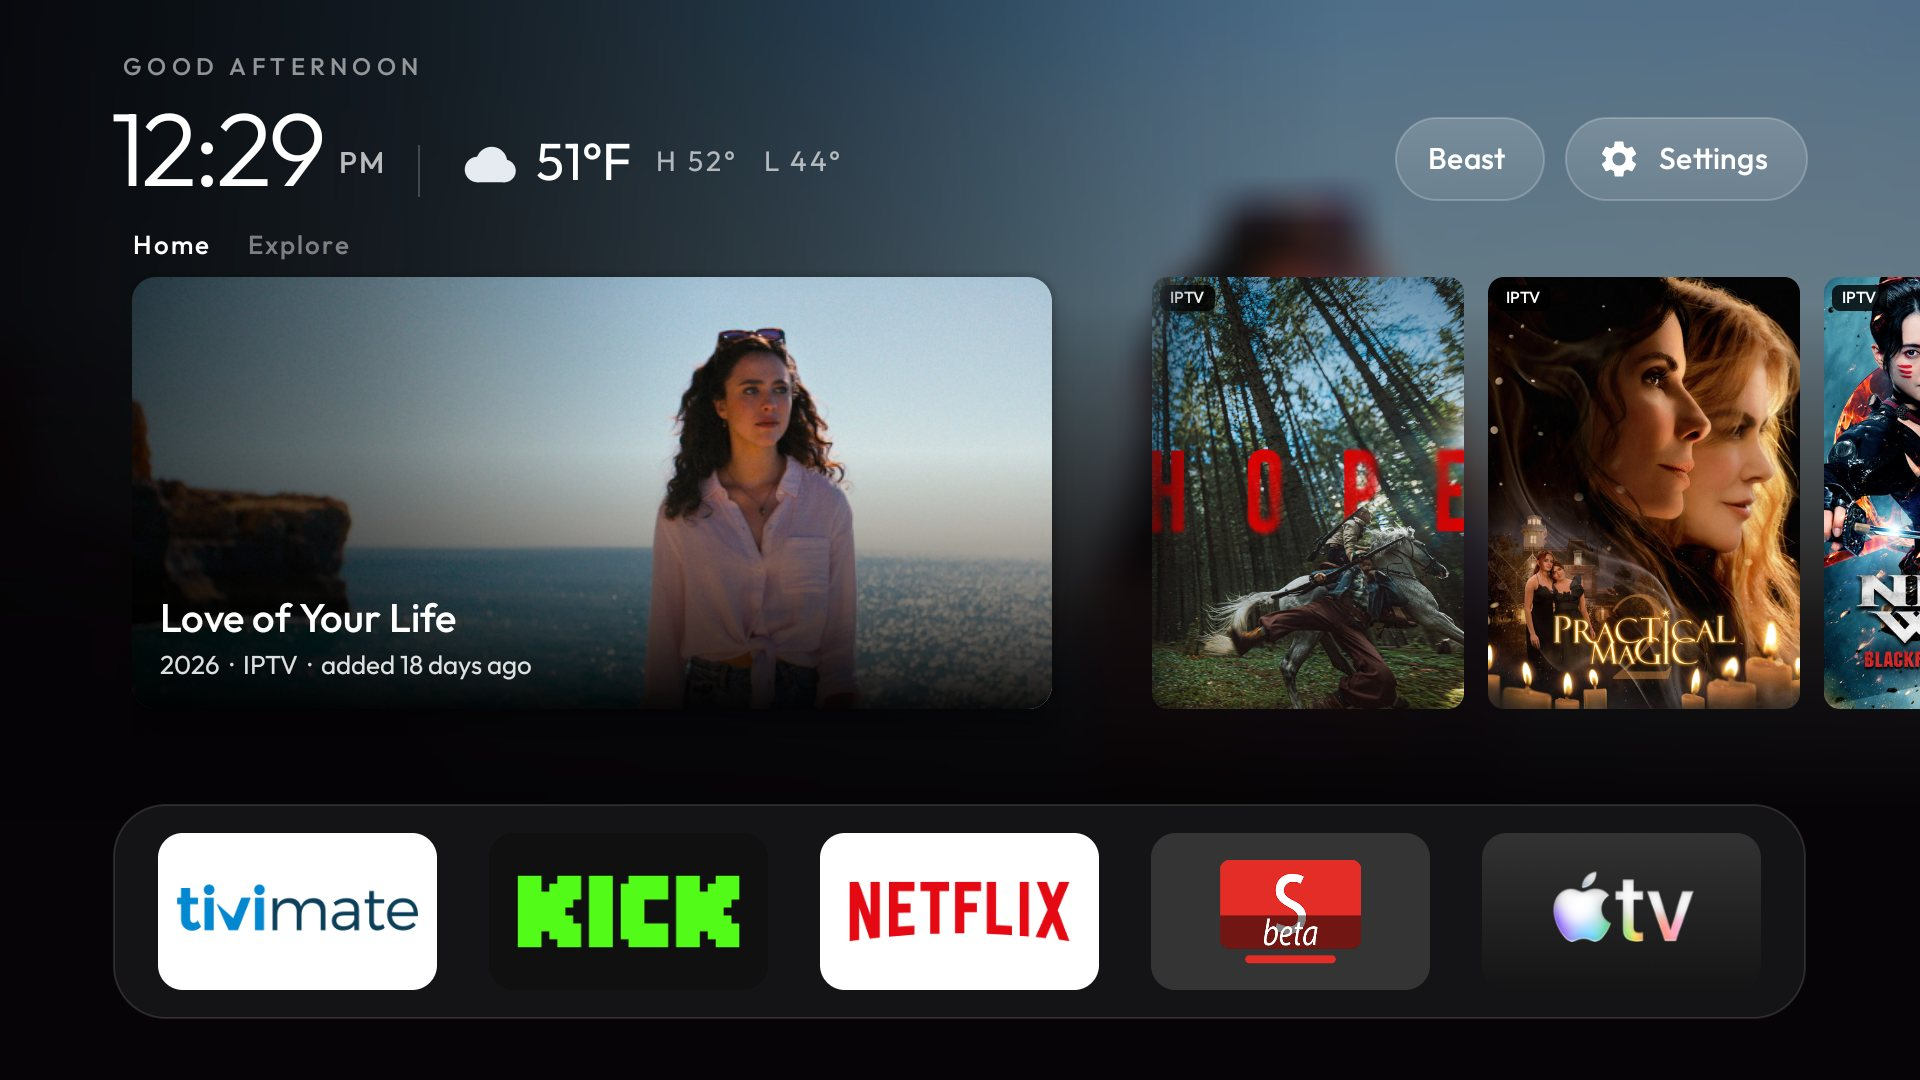
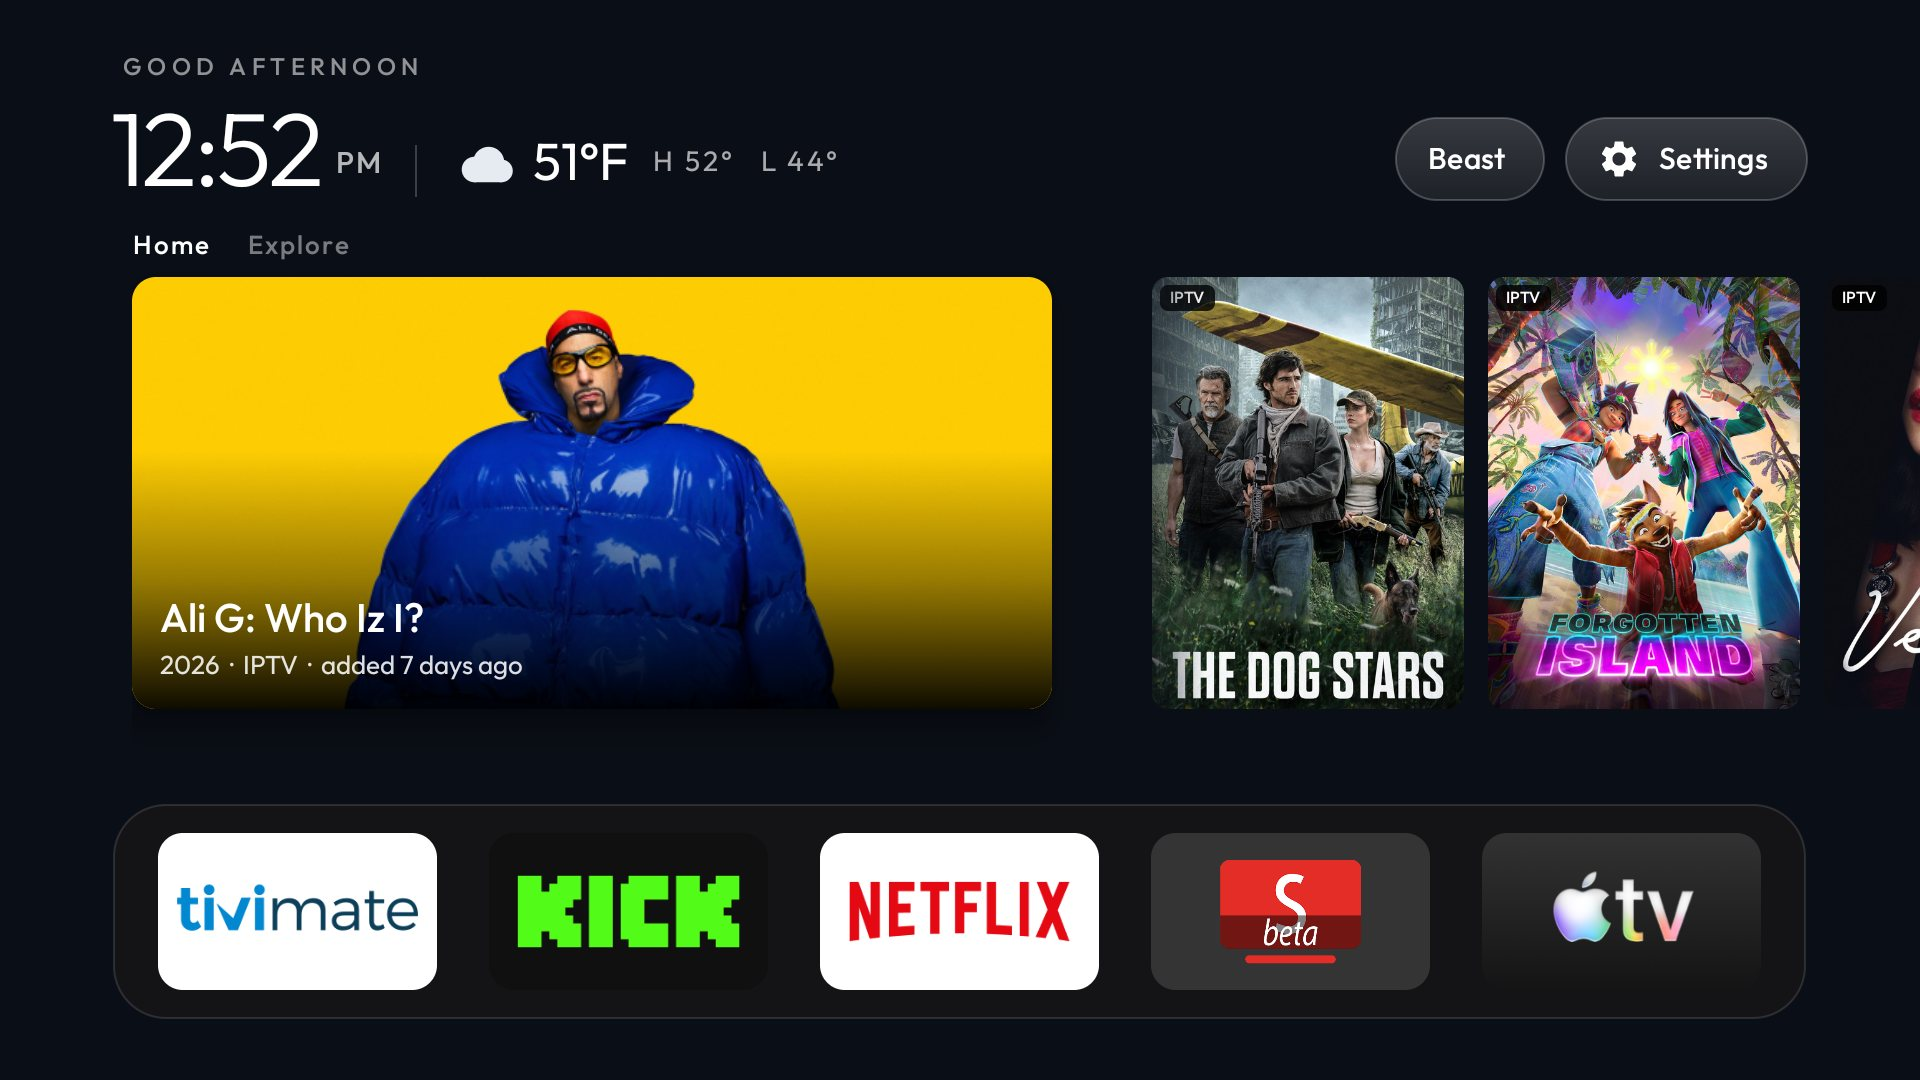
docs: rename Office, mask LAN IPs in docs, add Mediarium explainer
Rename the room 'Jeremys Office' to 'Office' (folder, scripts, rooms.ps1 and both READMEs). Mask the first three octets of TV and server IPs in the READMEs (xxx.xxx.xxx.NNN) for a shareable repo; functional source keeps the real private LAN addresses so builds still work. Add a 'What is Mediarium (Beast)?' section and refresh the home screenshot from the Office TV.

diff --git a/mytv/README.md b/mytv/README.md
@@ -5,12 +5,13 @@ Each room has its own folder with its launcher settings, debloat lists and backu
 
 | Room | Device | Address | Folder |
 |------|--------|---------|--------|
-| Jeremys Office | Hisense SmartTV 4K (lushan), Google TV 12 | `192.168.1.131` | [`Jeremys Office\`](Jeremys%20Office/) |
-| LivingRoom TV | onn. Streaming Device 4K pro (SNA), Google TV 14 | `192.168.1.233` | [`LivingRoom TV\`](LivingRoom%20TV/) |
-| Master Bedroom | onn 4K Pro Streaming Device (jarvis2), Google TV 14 | `192.168.1.214` | [`Master Bedroom\`](Master%20Bedroom/) |
+| Office | Hisense SmartTV 4K (lushan), Google TV 12 | `xxx.xxx.xxx.131` | [`Office\`](Office/) |
+| LivingRoom TV | onn. Streaming Device 4K pro (SNA), Google TV 14 | `xxx.xxx.xxx.233` | [`LivingRoom TV\`](LivingRoom%20TV/) |
+| Master Bedroom | onn 4K Pro Streaming Device (jarvis2), Google TV 14 | `xxx.xxx.xxx.214` | [`Master Bedroom\`](Master%20Bedroom/) |
 
-All three are on Wi-Fi "Poncho7G". The room names and addresses live in [`rooms.ps1`](rooms.ps1). If a TV gets a new
-address, change it there; better, give each TV a DHCP reservation on the router so it doesn't move.
+Addresses are shown with the first three octets masked. The room names and real addresses live in
+[`rooms.ps1`](rooms.ps1). If a TV gets a new address, change it there; better, give each TV a DHCP reservation on
+the router so it doesn't move.
 
 Every command below needs **USB debugging and Network debugging switched on** on that TV
 (Settings > System > Developer options), because it talks to the TV over the network. Accept the
@@ -21,8 +22,8 @@ Every command below needs **USB debugging and Network debugging switched on** on
 | To | Run |
 |----|-----|
 | Rebuild and install the launcher after editing a room's `config.xml` | `pwsh mytv\build-and-install.ps1 -Room 'Master Bedroom'` |
-| Undo a room's debloat and give Home back to Google TV | `pwsh mytv\restore.ps1 -Room 'Jeremys Office'` |
-| Re-enable one app | `pwsh mytv\restore.ps1 -Room 'Jeremys Office' -Package com.vt.hishow` |
+| Undo a room's debloat and give Home back to Google TV | `pwsh mytv\restore.ps1 -Room 'Office'` |
+| Re-enable one app | `pwsh mytv\restore.ps1 -Room 'Office' -Package com.vt.hishow` |
 | Snapshot a TV's packages and settings (read-only) | `pwsh mytv\backup.ps1 -Room 'Master Bedroom'` |
 | Push a theme | `pwsh tools\theme.ps1 -TvHost <address> themes\christmas` |
 | Remove the theme (plain black) | `pwsh tools\theme.ps1 -TvHost <address> -Reset` |
@@ -66,12 +67,12 @@ Just Player `com.brouken.player`, SmartTube beta `org.smarttube.beta`.
 
 Tiles can also be reordered on the TV itself: hold OK on the Settings pill and pick Reorder.
 
-## Jeremys Office
+## Office
 
 Hisense SmartTV 4K (lushan), Google TV 12, firmware STT2.230929.001.091. Set up on 2026-11-02.
 
 - **8 packages disabled** (never uninstalled), listed with reasons in
-  [`Jeremys Office\debloat.txt`](Jeremys%20Office/debloat.txt): Hisense viewing-data tracking (ACR), Google partner
+  [`Office\debloat.txt`](Office/debloat.txt): Hisense viewing-data tracking (ACR), Google partner
   tracking, the feedback uploader, calendar sync, Family Moment, store demo mode, first-time setup hooks and the
   Hisense "cleaner". Applied as `batch1.txt` and `batch2.txt`, which the restore replays.
 - **Home**: the Clean Your TV launcher. Google TV home (`com.google.android.apps.tv.launcherx`) is disabled so it
@@ -82,7 +83,7 @@ Hisense SmartTV 4K (lushan), Google TV 12, firmware STT2.230929.001.091. Set up 
 - **Inputs menu**: HDMI 1-3 and Live TV (`com.vt.tv.tvcenter`, hidden from the grid).
 - **Theme**: `themes\christmas` (Santa's sleigh wallpaper, glass dock). Screensaver: the stock Google TV
   backdrop.
-- **Beast button**: on, opening the Mediarium server panel at `http://192.168.1.15:8264/`. See the Beast page
+- **Beast button**: on, opening the Mediarium server panel at `http://xxx.xxx.xxx.15:8264/`. See the Beast page
   section below; it is on in all three rooms.
 - **Weather widget**: on, in place of the date next to the clock (current temperature, condition icon, today's
   high/low). The Wi-Fi and Inputs pills are off (house rule above); Beast and Settings stay. Verified on screen
@@ -91,11 +92,11 @@ Hisense SmartTV 4K (lushan), Google TV 12, firmware STT2.230929.001.091. Set up 
   exactly. See `weather_widget` above.
 - **Kept on by choice**: every streaming app, Google Assistant, Alexa, AirPlay, DLNA, Miracast, firmware updates
   and the screensaver. No ad-blocking DNS.
-- **Backups**: `Jeremys Office\backups\` (before any change, after the old launcher was removed, and a later one).
+- **Backups**: `Office\backups\` (before any change, after the old launcher was removed, and a later one).
 
 **Remote buttons.** Netflix, Input and the mic work. The YouTube, Prime Video, Disney+ and gear buttons did
 nothing once Google TV home was disabled. They can come back with
-`pwsh mytv\build-and-install.ps1 -Room 'Jeremys Office' -HomeKeyService` plus these `app_keys` and
+`pwsh mytv\build-and-install.ps1 -Room 'Office' -HomeKeyService` plus these `app_keys` and
 `settings_key_keycodes` in its `config.xml` (measured on another lushan set): `scan:469:com.google.android.youtube.tv`,
 `scan:468:com.amazon.amazonvideo.livingroom`, `scan:418:com.disney.disneyplus`, and keycode `83` for the gear.
 The trade: while that helper runs, holding Volume up/down moves one step per press instead of ramping.
@@ -137,7 +138,7 @@ onn 4K Pro Streaming Device (jarvis2), Google TV 14, build URO3.260203.035.A1.15
 
 ## LivingRoom TV
 
-onn. Streaming Device 4K pro (SNA), Google TV 14, build URO4.260304.011.B1.15051976, `192.168.1.233`. Set up on
+onn. Streaming Device 4K pro (SNA), Google TV 14, build URO4.260304.011.B1.15051976, `xxx.xxx.xxx.233`. Set up on
 2026-11-03 to match the office, minus the Hisense-only parts (no HDMI inputs or tuner on a streaming box).
 
 - **Dock (5)**: TiviMate, Kick, Netflix, YouTube, Apple TV — the office's dock, except the office now has
@@ -232,7 +233,7 @@ the row shows at once. The account allows 5 streams at once.
 ## Beast page (all rooms)
 
 A **Beast** button in the top bar, next to Inputs, opens the Mediarium media-server panel full-screen at
-`http://192.168.1.15:8264/`. It is the real web panel in a locked-down WebView, so everything the panel can do
+`http://xxx.xxx.xxx.15:8264/`. It is the real web panel in a locked-down WebView, so everything the panel can do
 (search, add, manage downloads) works from the couch.
 
 - **Sign in once.** The first time, sign in with the on-screen keyboard. The session cookie is kept, so later
@@ -251,11 +252,11 @@ Turn it on or off per room in `mytv\<room>\config.xml`, then rebuild that room:
 - `beast_page` (`true`/`false`): shows the Beast button. `true` in all three rooms.
 - `beast_url`: the address it opens. Empty hides the button even when `beast_page` is true.
 
-Because the panel is served over plain HTTP, the host `192.168.1.15` is allowed as a cleartext exception in
+Because the panel is served over plain HTTP, the host `xxx.xxx.xxx.15` is allowed as a cleartext exception in
 `launcher\app\src\main\res\xml\network_security_config.xml`. If the Beast server ever moves, change both
 `beast_url` and that host, then rebuild. Nothing else on the launcher is allowed to use plain HTTP.
 
-The server's API key file `Jeremys Office\beast_key.txt` (git-ignored) is **not** used by this page — the
+The server's API key file `Office\beast_key.txt` (git-ignored) is **not** used by this page — the
 WebView signs in with the web panel instead. It can be kept for other tooling or deleted.
 
 ## Tried and removed: Plex row

diff --git a/README.md b/README.md
@@ -22,6 +22,37 @@ nothing here is meant for upstream. The original project's README is kept for re
   high and low, from the TV's own location.
 - **Per-room setups** under [`mytv/`](mytv/README.md): one config, debloat list and set of scripts per TV.
 
+## What is Mediarium (Beast)?
+
+"Beast" is my nickname for **Mediarium**, the self-hosted media server running on my home network. It is the
+source behind both the Movies & Shows rail and the Beast button, and nothing in it leaves the LAN.
+
+What it does:
+
+- **Keeps a download library.** Mediarium manages a library of downloaded movies and shows and serves the files
+  over my home network. The launcher reads that library for the "Local" titles in the rail and plays them in mpv.
+- **Has its own web panel.** Mediarium runs a web dashboard (search, add, and manage downloads) on a port on the
+  server. The launcher's **Beast button** opens that real panel full-screen in a locked-down WebView, so I can
+  drive it from the couch with the remote. The WebView only ever loads that one address; links to anywhere else
+  are refused, so it can't wander onto the open internet.
+- **Feeds the rail alongside IPTV.** The Movies & Shows rail merges Mediarium's downloads with the newest movies
+  from my IPTV provider (read over its Xtream Codes API). When the same title exists in both, the download wins.
+  TMDB fills in the wide backdrops, logos, ratings and overviews.
+
+How the pieces fit:
+
+| Piece | Role |
+|-------|------|
+| Mediarium server ("Beast") | Self-hosted on the LAN: the download library, the file server, and the web panel |
+| Beast button | Opens the Mediarium web panel full-screen in a guarded WebView |
+| Movies & Shows rail | Mediarium downloads (mpv) + IPTV newest movies (Just Player), deduped, art from TMDB |
+| Explore page | A full-screen browser over the same two sources |
+
+The server addresses, the IPTV login and the TMDB key are **not** in this repo: they live in git-ignored
+`*_secrets.xml` files that a fresh clone recreates locally. See
+[`mytv/README.md`](mytv/README.md#secrets-files-git-ignored-recreate-on-a-new-pc) for the exact files and the
+[Beast page notes](mytv/README.md#beast-page-all-rooms) for how the panel behaves on the remote.
+
 ### The Explore page
 
 ![Explore, Movies tab: a full-screen backdrop with the title logo, rating and overview over a poster rail](docs/screenshots/explore.jpg)
@@ -45,7 +76,7 @@ Focusing a show opens its episodes in order as wide stills, each with its own TM
 
 | Room | Device | Features |
 |------|--------|------|
-| Jeremys Office | Hisense SmartTV 4K (lushan), Google TV 12 | Movies & Shows rail, Explore page, Beast button, Weather widget |
+| Office | Hisense SmartTV 4K (lushan), Google TV 12 | Movies & Shows rail, Explore page, Beast button, Weather widget |
 | LivingRoom TV | onn. Streaming Device 4K pro (SNA), Google TV 14 | Movies & Shows rail, Explore page, Beast button, Weather widget |
 | Master Bedroom | onn 4K Pro (jarvis2), Google TV 14 | Movies & Shows rail, Explore page, Beast button, Weather widget |
 
@@ -95,7 +126,7 @@ These stay on my PC on purpose, so a fresh clone will not build the rail until t
   login, the Beast server addresses and API key, and the TMDB API key. The exact files and what each value means
   are in [`mytv/README.md`](mytv/README.md#secrets-files-git-ignored-recreate-on-a-new-pc).
 - `mytv\*\backups\`: package and settings snapshots of each TV, taken before any change.
-- `mytv\Jeremys Office\beast_key.txt`: the Beast server API key.
+- `mytv\Office\beast_key.txt`: the Beast server API key.
 - `tools\adbkey`: the ADB key that the TVs authorised.
 - `shots\`: screenshots, which show the Wi-Fi name.
 
